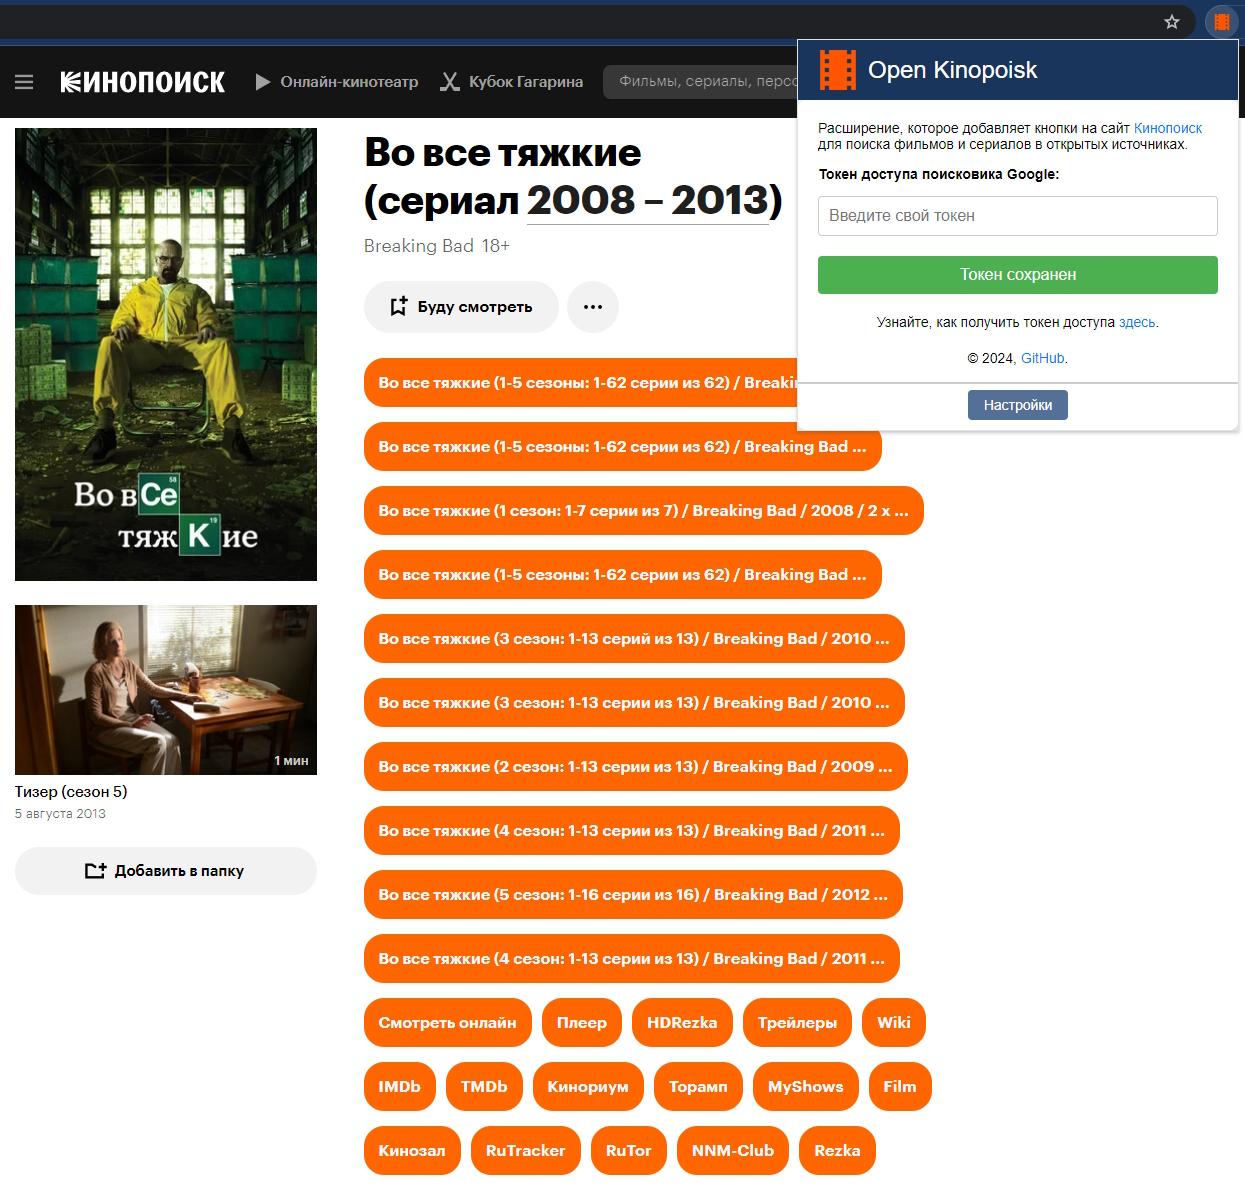
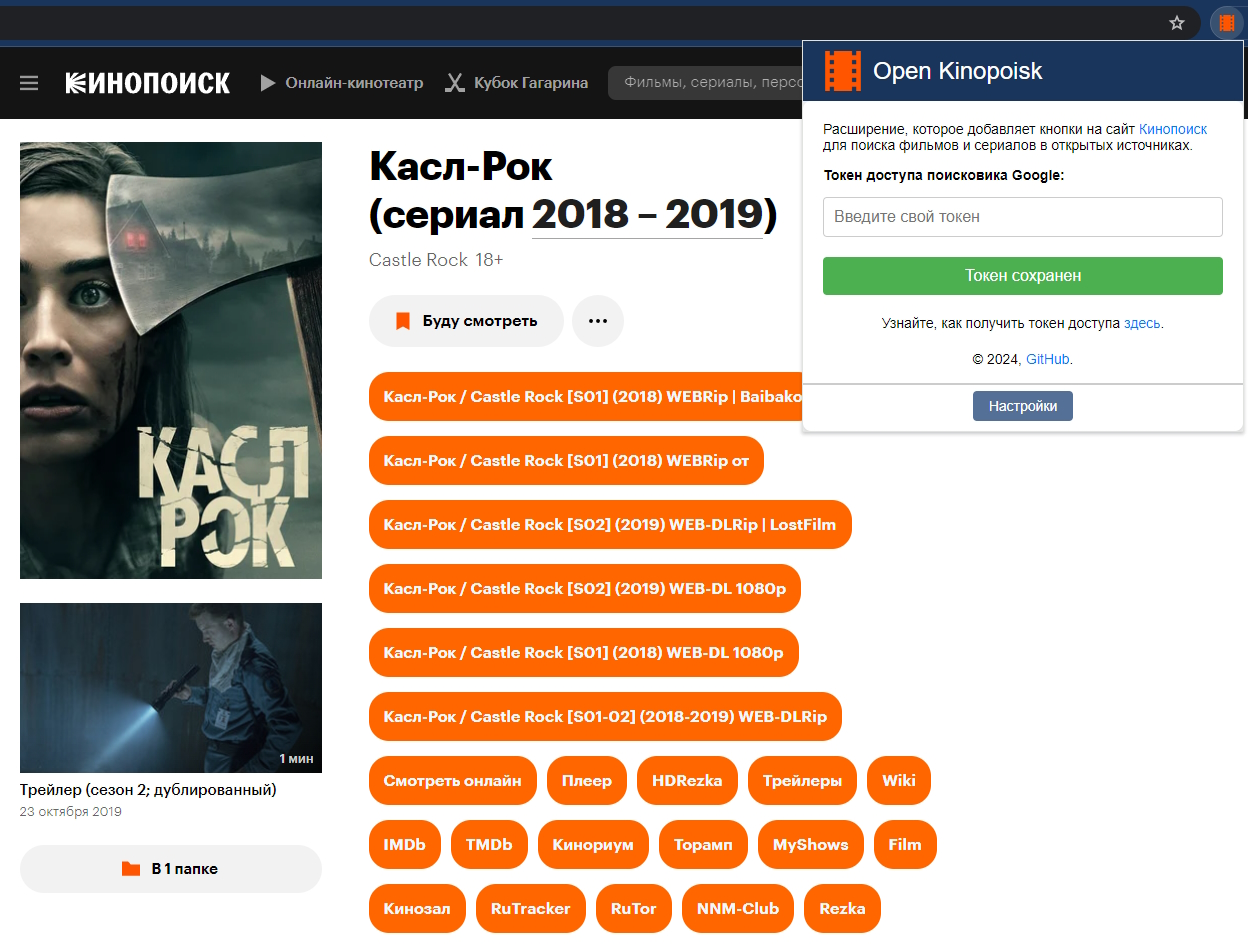
update google cse for torrent

diff --git a/ChromeExtension/FileSaver.js b/ChromeExtension/FileSaver.js
@@ -1,0 +1,172 @@
+/*
+* FileSaver.js
+* A saveAs() FileSaver implementation.
+*
+* By Eli Grey, http://eligrey.com
+*
+* License : https://github.com/eligrey/FileSaver.js/blob/master/LICENSE.md (MIT)
+* source  : http://purl.eligrey.com/github/FileSaver.js
+*/
+
+// The one and only way of getting global scope in all environments
+// https://stackoverflow.com/q/3277182/1008999
+var _global = typeof window === 'object' && window.window === window
+  ? window : typeof self === 'object' && self.self === self
+  ? self : typeof global === 'object' && global.global === global
+  ? global
+  : this
+
+function bom (blob, opts) {
+  if (typeof opts === 'undefined') opts = { autoBom: false }
+  else if (typeof opts !== 'object') {
+    console.warn('Deprecated: Expected third argument to be a object')
+    opts = { autoBom: !opts }
+  }
+
+  // prepend BOM for UTF-8 XML and text/* types (including HTML)
+  // note: your browser will automatically convert UTF-16 U+FEFF to EF BB BF
+  if (opts.autoBom && /^\s*(?:text\/\S*|application\/xml|\S*\/\S*\+xml)\s*;.*charset\s*=\s*utf-8/i.test(blob.type)) {
+    return new Blob([String.fromCharCode(0xFEFF), blob], { type: blob.type })
+  }
+  return blob
+}
+
+function download (url, name, opts) {
+  var xhr = new XMLHttpRequest()
+  xhr.open('GET', url)
+  xhr.responseType = 'blob'
+  xhr.onload = function () {
+    saveAs(xhr.response, name, opts)
+  }
+  xhr.onerror = function () {
+    console.error('could not download file')
+  }
+  xhr.send()
+}
+
+function corsEnabled (url) {
+  var xhr = new XMLHttpRequest()
+  // use sync to avoid popup blocker
+  xhr.open('HEAD', url, false)
+  try {
+    xhr.send()
+  } catch (e) {}
+  return xhr.status >= 200 && xhr.status <= 299
+}
+
+// `a.click()` doesn't work for all browsers (#465)
+function click (node) {
+  try {
+    node.dispatchEvent(new MouseEvent('click'))
+  } catch (e) {
+    var evt = document.createEvent('MouseEvents')
+    evt.initMouseEvent('click', true, true, window, 0, 0, 0, 80,
+                          20, false, false, false, false, 0, null)
+    node.dispatchEvent(evt)
+  }
+}
+
+// Detect WebView inside a native macOS app by ruling out all browsers
+// We just need to check for 'Safari' because all other browsers (besides Firefox) include that too
+// https://www.whatismybrowser.com/guides/the-latest-user-agent/macos
+var isMacOSWebView = _global.navigator && /Macintosh/.test(navigator.userAgent) && /AppleWebKit/.test(navigator.userAgent) && !/Safari/.test(navigator.userAgent)
+
+var saveAs = _global.saveAs || (
+  // probably in some web worker
+  (typeof window !== 'object' || window !== _global)
+    ? function saveAs () { /* noop */ }
+
+  // Use download attribute first if possible (#193 Lumia mobile) unless this is a macOS WebView
+  : ('download' in HTMLAnchorElement.prototype && !isMacOSWebView)
+  ? function saveAs (blob, name, opts) {
+    var URL = _global.URL || _global.webkitURL
+    // Namespace is used to prevent conflict w/ Chrome Poper Blocker extension (Issue #561)
+    var a = document.createElementNS('http://www.w3.org/1999/xhtml', 'a')
+    name = name || blob.name || 'download'
+
+    a.download = name
+    a.rel = 'noopener' // tabnabbing
+
+    // TODO: detect chrome extensions & packaged apps
+    // a.target = '_blank'
+
+    if (typeof blob === 'string') {
+      // Support regular links
+      a.href = blob
+      if (a.origin !== location.origin) {
+        corsEnabled(a.href)
+          ? download(blob, name, opts)
+          : click(a, a.target = '_blank')
+      } else {
+        click(a)
+      }
+    } else {
+      // Support blobs
+      a.href = URL.createObjectURL(blob)
+      setTimeout(function () { URL.revokeObjectURL(a.href) }, 4E4) // 40s
+      setTimeout(function () { click(a) }, 0)
+    }
+  }
+
+  // Use msSaveOrOpenBlob as a second approach
+  : 'msSaveOrOpenBlob' in navigator
+  ? function saveAs (blob, name, opts) {
+    name = name || blob.name || 'download'
+
+    if (typeof blob === 'string') {
+      if (corsEnabled(blob)) {
+        download(blob, name, opts)
+      } else {
+        var a = document.createElement('a')
+        a.href = blob
+        a.target = '_blank'
+        setTimeout(function () { click(a) })
+      }
+    } else {
+      navigator.msSaveOrOpenBlob(bom(blob, opts), name)
+    }
+  }
+
+  // Fallback to using FileReader and a popup
+  : function saveAs (blob, name, opts, popup) {
+    // Open a popup immediately do go around popup blocker
+    // Mostly only available on user interaction and the fileReader is async so...
+    popup = popup || open('', '_blank')
+    if (popup) {
+      popup.document.title =
+      popup.document.body.innerText = 'downloading...'
+    }
+
+    if (typeof blob === 'string') return download(blob, name, opts)
+
+    var force = blob.type === 'application/octet-stream'
+    var isSafari = /constructor/i.test(_global.HTMLElement) || _global.safari
+    var isChromeIOS = /CriOS\/[\d]+/.test(navigator.userAgent)
+
+    if ((isChromeIOS || (force && isSafari) || isMacOSWebView) && typeof FileReader !== 'undefined') {
+      // Safari doesn't allow downloading of blob URLs
+      var reader = new FileReader()
+      reader.onloadend = function () {
+        var url = reader.result
+        url = isChromeIOS ? url : url.replace(/^data:[^;]*;/, 'data:attachment/file;')
+        if (popup) popup.location.href = url
+        else location = url
+        popup = null // reverse-tabnabbing #460
+      }
+      reader.readAsDataURL(blob)
+    } else {
+      var URL = _global.URL || _global.webkitURL
+      var url = URL.createObjectURL(blob)
+      if (popup) popup.location = url
+      else location.href = url
+      popup = null // reverse-tabnabbing #460
+      setTimeout(function () { URL.revokeObjectURL(url) }, 4E4) // 40s
+    }
+  }
+)
+
+_global.saveAs = saveAs.saveAs = saveAs
+
+if (typeof module !== 'undefined') {
+  module.exports = saveAs;
+}

diff --git a/ChromeExtension/main.js b/ChromeExtension/main.js
@@ -75,28 +75,35 @@ const main = async function (url) {
             var Token = result.saveTokenKinopoisk
             // Google CSE (Custom Search Engine)
             // const Token = '' // API-ключ
-            const cx = '87cb27565e927482b' // ID поисковой системы с доменом для поиска *.kinozal.tv/details*
+            const cx = 'e37dd9d94f75f4c8d' // ID поисковой системы для поиска в rutor.org/torrent*
+            // const cx = '357fa5a907d2f4437' // ID поисковой системы для поиска в nnmclub.to/forum/viewtopic**
+            // const cx = '87cb27565e927482b' // ID поисковой системы для поиска в kinozal.tv/details*
             // Заголовок запроса для RapidAPI
-            const headers = new Headers({
-                "X-RapidAPI-Key": Token,
-                "X-RapidAPI-Host": "google-search72.p.rapidapi.com"
-            })
-            const urlGoogleSearchTorrent = `https://www.googleapis.com/customsearch/v1?q=intitle:${titleElement.textContent}&key=${Token}&cx=${cx}&lr=lang_${language}&num=10&$start=0`
+            // const headers = new Headers({
+            //     "X-RapidAPI-Key": Token,
+            //     "X-RapidAPI-Host": "google-search72.p.rapidapi.com"
+            // })
+            const urlGoogleSearchTorrent = `https://www.googleapis.com/customsearch/v1?q=intitle:${titleElement.textContent}&key=${Token}&cx=${cx}&lr=lang_${language}&num=10&$start=1`
             // const urlGoogleSearchTMDb = `https://google-search72.p.rapidapi.com/search?q=${titleElement.textContent}`
             // fetch(urlGoogleSearchTMDb, { headers })
             fetch(urlGoogleSearchTorrent)
             .then(response => response.json())
             .then(data => {
+                // Проверяем, что массив не пустой (не выводить ошибки в консоль)
                 if (data.items && data.items.length > 0) {
                     data.items.forEach(item => {
-                        const TorrentGoogleButton = newElementPadding({
-                            tag: 'a',
-                            id: `Torrent-Google-Button-${item.id}`, // Уникальный ID для каждой кнопки
-                            href: item.link,
-                            content: item.title
-                        })
-                        TorrentGoogleButton.setAttribute('target', '_blank')
-                        buttonBlock.parentNode.insertBefore(TorrentGoogleButton, buttonBlock.nextSibling)
+                        // Проверяем заголовки содержимого поиска (отсеять ложные совпадения)
+                        if (item.title.includes(titleElement.textContent)) {
+                            let newTitle = item.title.replace(/- rutor\.info/g,'').replace(/rutor\.info ::/g,'').replace(/\.\.\./g,'')
+                            let downloadLink = item.link.replace(/torrent/,'download').replace(/(\d+).*/, '$1')
+                            const TorrentGoogleButton = newElementPadding({
+                                tag: 'a',
+                                id: `Torrent-Google-Button-${item.id}`,
+                                href: downloadLink,
+                                content: newTitle
+                            })
+                            buttonBlock.parentNode.insertBefore(TorrentGoogleButton, buttonBlock.nextSibling)
+                        }
                     })
                 }
             })

diff --git a/README.md b/README.md
@@ -13,7 +13,6 @@
 - ✅ Поиск в зарубежных базах данных ([IMDb](https://imdb.com) и [TMDb](https://themoviedb.org)).
 - ✅ Поиск в торрент трекерах [Кинозал](https://kinozal.tv), [RuTrucker](https://rutracker.org), [RuTor](https://rutor.info), [NoName-Club](https://nnmclub.to) и [Rezka](https://rezka.cc) с фильтрацией по оригинальному названию и году выхода (rutor, nnm-club и rezka не требуют авторизации для загрузки).
 - ✅ Интерфейс расширения для настройки отображения кнопок.
-- ✅ Список раздач в формате кнопок на трекере Кинозал через систему [Google Custom Search Engine](https://programmablesearchengine.google.com/about).
 
 💡 Для доступа к некоторым ресурсам может потребоваться `VPN`, например, вы можете воспользоваться расширением [Browsec](https://browsec.com).
 
@@ -34,8 +33,8 @@
 
 ![Image alt](https://github.com/Lifailon/OpenKinopoisk/blob/rsa/image/popup-settings.jpg)
 
-В главном меню расширения можно передать свой токен системы Google CSE, который используется для поиска раздач на сайте Кинозал и формирования списка кнопок для прямого доступа. Токен хранится в локальном хранилище вашего браузера Google Chrome и сохраняется после перезагрузки системы. Что бы отключить функционал, просто сохраните пустое значение.
+В главном меню расширения можно передать свой токен системы [Google Custom Search Engine](https://developers.google.com/custom-search/docs/overview?hl=ru), которая используется для поиска раздач на сайте Кинозал и формирования списка кнопок для прямого доступа. Токен хранится в локальном хранилище вашего браузера Google Chrome и сохраняется после перезагрузки системы. Что бы отключить функционал, просто сохраните пустое значение.
 
 ![Image alt](https://github.com/Lifailon/OpenKinopoisk/blob/rsa/image/google-cse-api.jpg)
 
-Узнайте, как получить токен доступа [здесь](https://developers.google.com/custom-search/v1/overview?hl=ru).
+Узнайте, как получить токен доступа [здесь](https://developers.google.com/custom-search/v1/overview?hl=ru) (бесплатно доступно 100 запросов в сутки).
